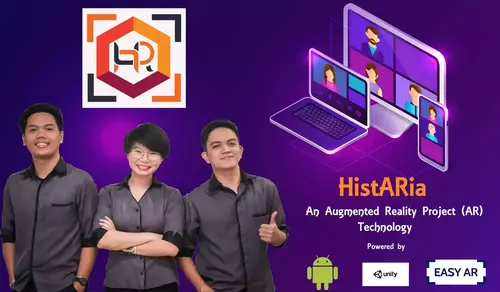
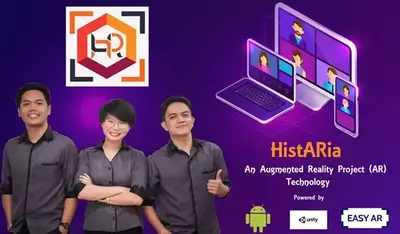
optimized images

diff --git a/src/components/Carousel/MyCarousel.jsx b/src/components/Carousel/MyCarousel.jsx
@@ -1,5 +1,5 @@
 import Carousel from "react-bootstrap/Carousel";
-import Slide1 from "../../assets/img/carousel/slide.webp";
+import Slide1 from "../../assets/img/carousel/slide1.webp";
 
 import "./MyCarousel.css";
 
